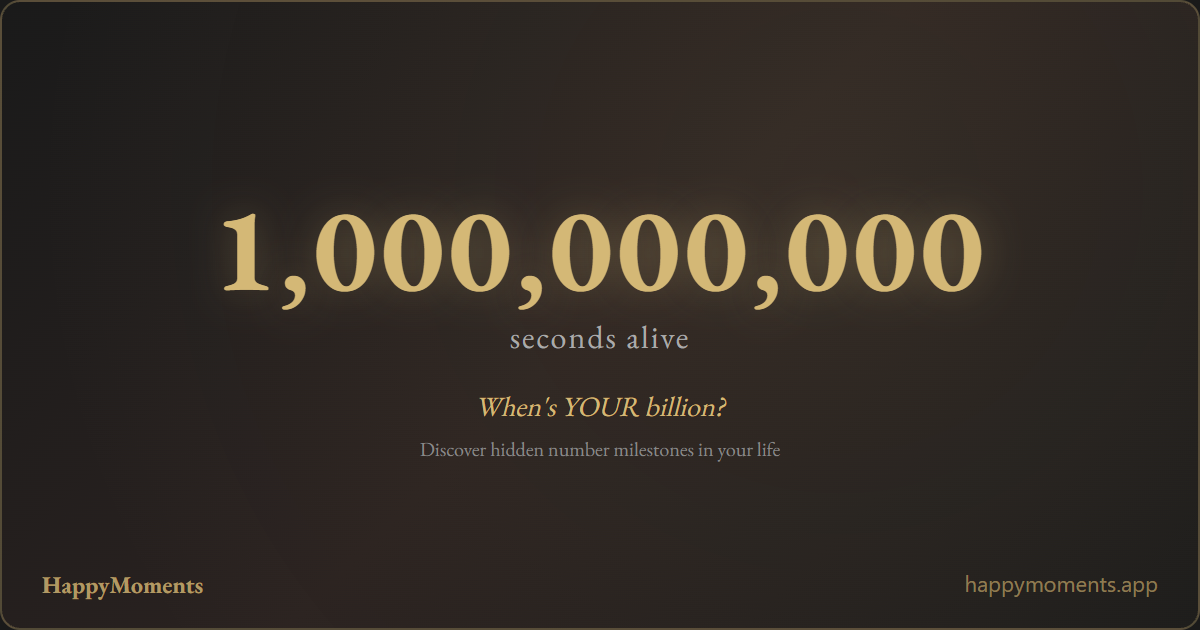
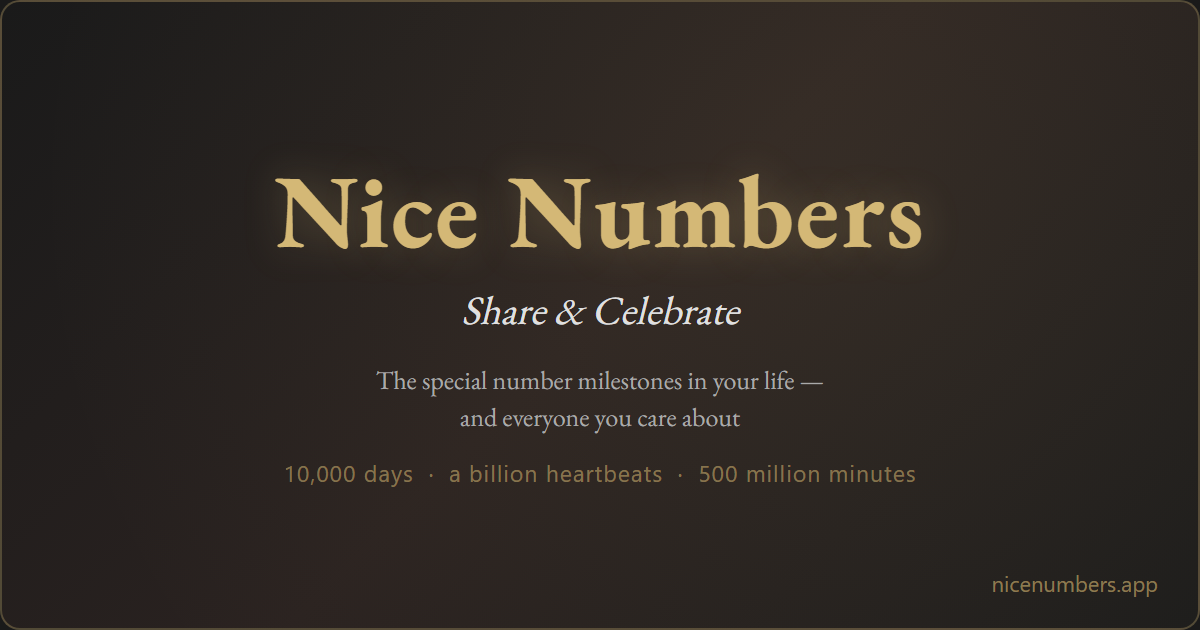
Generic og-image (was '1 billion seconds' in every link preview) + remove 'exclusive card designs' premium claim
- Link previews (WhatsApp/Viber/FB) showed the static og-image depicting
  '1,000,000,000 seconds' for EVERY shared milestone. Replaced with a brand-
  forward image (Nice Numbers · Share & Celebrate, no specific number).
- Card designs are now FREE for everyone (removed the premium lock, the profile
  'Exclusive card designs' bullet, and the claim in the Stripe description).
  Premium = unlimited people + watermark-free cards.

diff --git a/web/og-image.html b/web/og-image.html
@@ -29,37 +29,40 @@ body { background: #1a1a1a; display: flex; align-items: center; justify-content:
     height: 200%;
     background: radial-gradient(circle at 60% 40%, rgba(212, 184, 118, 0.08) 0%, transparent 50%);
 }
-.number {
-    font-size: 120px;
+.brand {
+    font-size: 104px;
     font-weight: 700;
     color: #d4b876;
-    letter-spacing: 4px;
+    letter-spacing: 2px;
     text-shadow: 0 0 40px rgba(212, 184, 118, 0.3);
     position: relative;
     z-index: 1;
 }
-.label {
-    font-size: 32px;
-    color: #aaa;
-    margin-top: -10px;
-    letter-spacing: 2px;
-    position: relative;
-    z-index: 1;
-}
 .tagline {
-    font-size: 28px;
-    color: #d4b876;
-    margin-top: 30px;
+    font-size: 40px;
+    color: #e0e0e0;
+    margin-top: 6px;
     font-style: italic;
     position: relative;
     z-index: 1;
 }
 .subtitle {
-    font-size: 20px;
-    color: #888;
-    margin-top: 12px;
+    font-size: 26px;
+    color: #aaa;
+    margin-top: 26px;
+    line-height: 1.4;
+    text-align: center;
     position: relative;
     z-index: 1;
+}
+.chips {
+    font-size: 23px;
+    color: rgba(212, 184, 118, 0.55);
+    margin-top: 22px;
+    letter-spacing: 1px;
+    position: relative;
+    z-index: 1;
+    font-family: 'Segoe UI', sans-serif;
 }
 .url {
     position: absolute;
@@ -89,11 +92,10 @@ body { background: #1a1a1a; display: flex; align-items: center; justify-content:
     Then update og:image meta tags in index.html and landing.html.
 -->
 <div class="card">
-    <div class="number">1,000,000,000</div>
-    <div class="label">seconds alive</div>
-    <div class="tagline">When's YOUR billion?</div>
-    <div class="subtitle">Discover hidden number milestones in your life</div>
-    <div class="logo">Nice Numbers</div>
+    <div class="brand">Nice Numbers</div>
+    <div class="tagline">Share &amp; Celebrate</div>
+    <div class="subtitle">The special number milestones in your life —<br>and everyone you care about</div>
+    <div class="chips">10,000 days &nbsp;·&nbsp; a billion heartbeats &nbsp;·&nbsp; 500 million minutes</div>
     <div class="url">nicenumbers.app</div>
 </div>
 </body>

diff --git a/web/app.js b/web/app.js
@@ -7780,7 +7780,7 @@ function renderCardDesignPicker() {
     el.innerHTML = order.map(t => {
         const th = CARD_CONFIG.themes[t];
         if (!th) return '';
-        const locked = (t !== 'dark') && !prem;
+        const locked = false; // Card designs are free for everyone (not a premium exclusive)
         const isSel = t === selected;
         const grad = `linear-gradient(135deg, ${th.bgGradient[0]}, ${th.bgGradient[1]})`;
         const ring = isSel ? 'var(--warning,#d4b876)' : 'rgba(255,255,255,0.12)';
@@ -7794,12 +7794,11 @@ function renderCardDesignPicker() {
         </div>`;
     }).join('');
     const hint = document.getElementById('cardDesignHint');
-    if (hint) hint.textContent = prem ? tt('cd_hint_prem') : tt('cd_hint_free');
+    if (hint) hint.textContent = tt('cd_hint_prem'); // "Pick the look of the cards you share." — free for all
 }
 
 function selectCardDesign(t) {
-    const prem = (typeof isPremium === 'function') && isPremium();
-    if (t !== 'dark' && !prem) { showUpgradePrompt('cards'); return; }
+    // Card designs are free for everyone — no premium gate.
     localStorage.setItem('happymoments_card_theme', t);
     renderCardDesignPicker();
     showToast(tt('cd_updated'), 'success');

diff --git a/web/index.html b/web/index.html
@@ -445,7 +445,6 @@
                     <div style="font-size:0.9rem;color:var(--text);margin-bottom:6px;" data-i18n="prem2_unlocks">Upgrade to Premium to unlock:</div>
                     <ul style="list-style:none;padding:0;margin:0 0 12px;font-size:0.9rem;color:var(--text-muted);">
                         <li style="margin:5px 0;"><span style="color:var(--warning,#d4b876);">&#10003;</span> <span data-i18n="prem2_b_watermark">Watermark-free share cards</span></li>
-                        <li style="margin:5px 0;"><span style="color:var(--warning,#d4b876);">&#10003;</span> <span data-i18n="prem2_b_designs">Exclusive card designs</span></li>
                         <li style="margin:5px 0;"><span style="color:var(--warning,#d4b876);">&#10003;</span> <span data-i18n="prem2_b_people">Unlimited people &amp; groups</span></li>
                     </ul>
                     <button class="btn-primary" id="accountUpgradeBtn" onclick="handleUpgrade()" style="width:100%;"><span style="margin-right:4px;">&#9733;</span><span data-i18n="go_premium">Go Premium</span> &middot; &euro;1.49/year</button>

diff --git a/web/imageCard.js b/web/imageCard.js
@@ -76,14 +76,12 @@ const CARD_CONFIG = {
 const FREE_CARD_THEME = 'dark';
 const PREMIUM_CARD_THEMES = ['ocean', 'sunset', 'goldfoil', 'rose', 'ivory'];
 
-// The card design the user has chosen. Only honoured for premium users (the
-// free theme is always allowed); otherwise falls back to the free design.
+// The card design the user has chosen. Card designs are FREE for everyone (they
+// are not a premium exclusive), so any valid theme is honoured.
 function getCardTheme() {
     try {
         const sel = localStorage.getItem('happymoments_card_theme') || FREE_CARD_THEME;
-        if (sel === FREE_CARD_THEME) return FREE_CARD_THEME;
-        const prem = (typeof isPremium === 'function') && isPremium();
-        return (prem && CARD_CONFIG.themes[sel]) ? sel : FREE_CARD_THEME;
+        return CARD_CONFIG.themes[sel] ? sel : FREE_CARD_THEME;
     } catch (e) {
         return FREE_CARD_THEME;
     }

diff --git a/functions/api/create-checkout-session.js b/functions/api/create-checkout-session.js
@@ -36,7 +36,7 @@ export async function onRequestPost(context) {
             'line_items[0][price_data][unit_amount]': '149',
             'line_items[0][price_data][recurring][interval]': 'year',
             'line_items[0][price_data][product_data][name]': 'Nice Numbers Premium',
-            'line_items[0][price_data][product_data][description]': 'Unlimited people, exclusive card designs, and watermark-free cards. Billed annually.',
+            'line_items[0][price_data][product_data][description]': 'Unlimited people and watermark-free share cards. Billed annually.',
             'line_items[0][quantity]': '1',
             'success_url': `${appUrl}/index.html?checkout=premium_success&session_id={CHECKOUT_SESSION_ID}`,
             'cancel_url': `${appUrl}/index.html?checkout=premium_cancelled`,
